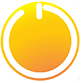
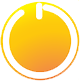
i c o n

Changed region(s): [[0.0, 0.0, 0.9877, 0.988], [0.963, 0.9157, 0.9877, 0.988], [0.963, 0.0, 0.9877, 0.0241]]

diff --git a/resources/views/layouts/_head.blade.php b/resources/views/layouts/_head.blade.php
@@ -26,7 +26,7 @@
   <!-- inject:css -->
   <link rel="stylesheet" href="{{asset('assets/css/style.css')}}">
   <!-- endinject -->
-  <link rel="shortcut icon" href="{{asset('assets/images/favicon.png')}}" />
+  <link rel="shortcut icon" href="{{asset('assets/atonergi-mini.png')}}" />
   <!-- <link rel="stylesheet" type="text/css" href="{{asset('assets/css/data-table.min.css')}}"> -->
 
   <!-- <link rel="stylesheet" type="text/css" href="{{asset('assets/datepicker/css/bootstrap-datepicker3.min.css')}}"> -->
